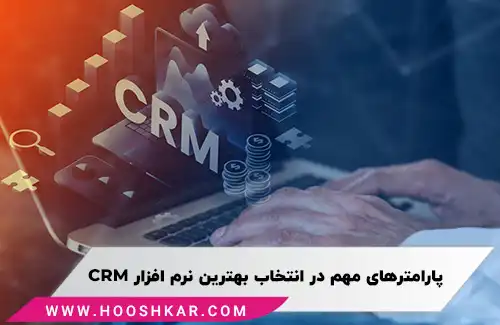
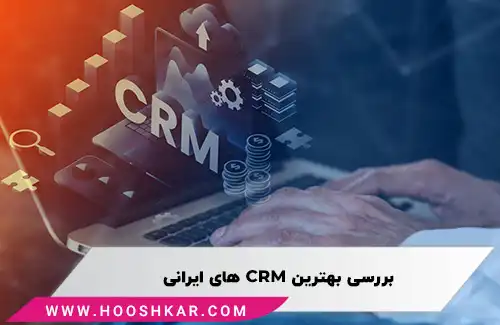
بازخوانی و ویرایش محتوا + فهرست + لینکسازی + عکس

Changed region(s): [[0.18, 0.8308, 0.9, 0.8923]]

diff --git a/Business/ComparisonCrmSoftware.md b/Business/ComparisonCrmSoftware.md
@@ -1,19 +1,19 @@
 ---
-title: مقایسه 4 بهترین نرم افزار های CRM در ایران
+title: مقایسه بهترین نرم افزار های CRM ایرانی
 author: سمانه رشوند
-description: مدیریت ارتباط با مشتری، ابزاری ضروری برای موفقیت و بقای سازمانها در دنیای کسبوکار امروزی است. CRM با فراهم کردن امکان شناخت عمیق مشتریان و برقراری ارتباطی مستمر و دوطرفه با آنها، نقش محوری در موفقیت سازمانها ایفا میکند.
-dateModified: 2024/05/13
+description: مقایسه بهترین نرم افزارهای CRM از نظر امکانات، قیمت و... برای کسب و کارهای ایرانی با هدف آنکه به خوانندگان کمک کند تا بهترین راه حل را برای نیازهای خاص خود انتخاب کنند.
+dateModified: 2024/06/15
 datePublished: 2024/01/06
 uid: Business/ComparisonCrmSoftware
 ---
 <blockquote style="background-color:#eeeefc; padding:0.5rem">
 
 <details>
-  <summary>آنچه در این مطلب خواهید خواند</summary>
+  <summary>آنچه در این مطلب خواهید خواند:</summary>
   <ul>
-    <li>چرا به نرم افزار CRM نیاز داریم</li>
-    <li>استفاده از CRM چه مزایایی دارد</li>
-    <li>راهنما و پارامترهای مهم در انتخاب بهترین نرم افزار CRM</li>
+    <li>چرا به نرم افزار CRM نیاز داریم؟</li>
+    <li>مزایای استفاده از CRM</li>
+    <li>پارامترهای مهم در انتخاب نرم افزار CRM</li>
     <li>لیست بهترین شرکت های نرم افزار CRM در ایران</li>
     <ul>
       <li>نرم افزار CRM فنک</li>
@@ -27,19 +27,15 @@ uid: Business/ComparisonCrmSoftware
 
 </blockquote>
 
-**مقدمه**
-
-<a href="https://www.hooshkar.com/Wiki/Business/WhatIsCrm" target="_blank">مدیریت ارتباط با مشتری (CRM)</a>، ابزاری ضروری برای موفقیت سازمانها در عرصه کسبوکار امروزی است. شرکتهای داخلی متعددی طی سالیان گذشته اقدام به توسعه نرمافزارهای CRM بومی کردهاند.
-
-در این مقاله به معرفی و مقایسه 4 مورد از محبوبترین نرمافزارهای CRM تولید داخل میپردازیم:
+این مقاله، بر اهمیت نرم افزارهای <a href="https://www.hooshkar.com/Wiki/Business/WhatIsCrm" target="_blank">CRM</a> برای کسب و کارهای ایرانی تأکید می کند و به مقایسه بهترین گزینه های موجود در بازار ایران می پردازد. هدف آن است که به خوانندگان کمک کند تا بهترین راه حل را برای نیازهای خاص خود انتخاب کنند. با بررسی ویژگی ها، امکانات، قیمت گذاری و دیگر جنبه های کلیدی این نرم افزارها، کاربران می توانند بهترین گزینه را جهت پیاده سازی یک استراتژی CRM موفق در کسب و کار خود انتخاب کنند.
 
 ![هدف CRM چیست](./Images/ComparisonCrmSoftware-01.webp)
 
-## چرا به نرم افزار CRM نیاز داریم
+## چرا به نرم افزار CRM نیاز داریم؟
 
-مدیریت ارتباط با مشتری (CRM) با فراهم کردن امکان شناخت عمیق مشتریان و برقراری ارتباطی مستمر و دوطرفه با آنها، نقش محوری در موفقیت سازمانها ایفا میکند. 
+بسیاری از شرکت ها و کسب و کارهای ایرانی برای بهبود مدیریت ارتباط با مشتریان خود، به دنبال راه حل های نرم افزاری کارآمد هستند. در این راستا نرم افزارهای CRM می توانند با ارائه ابزارهایی برای پیگیری سوابق مشتری، مدیریت پیشنهادات فروش، بازاریابی هدفمند و پشتیبانی مشتری، به شرکت ها در افزایش فروش و حفظ مشتریان کمک شایانی کنند.
 
-## استفاده از CRM چه مزایایی دارد
+## مزایای استفاده از CRM
 
 **- افزایش فروش و درآمد:** CRM با شناسایی مشتریان بالقوه و هدفمندسازی فعالیتهای بازاریابی، به افزایش فروش و در نتیجه درآمد کمک میکند.
 
@@ -54,9 +50,7 @@ uid: Business/ComparisonCrmSoftware
 در مجموع، CRM ابزاری اساسی برای موفقیت هر سازمانی در عرصه کسبوکار است.
 
 
-## راهنما و پارامترهای مهم در انتخاب بهترین نرم افزار CRM
-
-![پارامترهای مهم در انتخاب نرم افزار CRM](./Images/ComparisonCrmSoftware-02.webp)
+## پارامترهای مهم در انتخاب نرم افزار CRM
 
 انتخاب یک نرمافزار CRM مناسب نیازمند در نظر گرفتن پارامترها و معیارهای زیر است:
 
@@ -76,11 +70,13 @@ uid: Business/ComparisonCrmSoftware
 
 ## لیست بهترین شرکت های نرم افزار CRM در ایران
 
+![پارامترهای مهم در انتخاب نرم افزار CRM](./Images/ComparisonCrmSoftware-02.webp)
+
 شرکتها و گروههای زیادی در ایران اقدام به تولید نرمافزارهای مدیریت ارتباط با مشتری کردهاند. برخی از محبوبترین آنها عبارتند از:
 
-### <a href="https://www.hooshkar.com/Software/Fennec/Module/CRM" target="_blank">نرم افزار  CRM فنک</a>
+### 1. <a href="https://www.hooshkar.com/Software/Fennec/Module/CRM" target="_blank">نرم افزار  CRM فنک</a>
 
-این نرمافزار توسط شرکت هوشکار پرداز ارائه شده و ویژگیهای کلیدی آن عبارتند از:
+این نرمافزار توسط شرکت هوشکار پرداز ارائه شده است. برخی از ویژگیهای کلیدی آن عبارتند از:
 
 -	قابلیتهای کامل مدیریت فروش و بازاریابی
 -	امکان سفارشیسازی و تطابق با فرایندهای صنایع مختلف
@@ -90,37 +86,47 @@ uid: Business/ComparisonCrmSoftware
 -	پشتیبانی فنی دائمی
 -	هزینه پایین نسبت به محصولات خارجی
 
-CRM <a href="https://www.hooshkar.com/Software/Fennec" target="_blank">فنک</a> با تمرکز بر خودکارسازی و بهینهسازی فرایندها، گزینه مناسبی به شمار میرود.
+CRM فنک با تمرکز بر خودکارسازی و بهینهسازی فرایندها، گزینه مناسبی به شمار میرود.
 
-### نرمافزار CRM پیامگستر
-نرمافزار پیامگستر CRM یکی از 5 نرمافزار CRM برتر ایرانی است که توسط شرکت پیامگستر طراحی و توسعه یافته است. از نظر قیمت، پیامگستر جزء گرانقیمتترین نرمافزارهای CRM داخلی بهشمار میرود. البته مشتریان میتوانند به صورت سفارشی امکانات مورد نیاز خود را انتخاب کنند اما این کار باعث میشود هزینهی اولیهی استفاده از این نرمافزار بالاتر از سایر رقبا باشد.
+### 2. نرمافزار CRM پیامگستر
+این نرمافزار توسط شرکت پیامگستر طراحی و توسعه یافته است. از نظر قیمت، پیامگستر جزء گرانقیمتترین نرمافزارهای CRM داخلی بهشمار میرود. البته مشتریان میتوانند به صورت سفارشی امکانات مورد نیاز خود را انتخاب کنند اما این کار باعث میشود هزینهی اولیهی استفاده از این نرمافزار بالاتر از سایر رقبا باشد.
 
 ![نرم افزار CRM پیام گستر](./Images/ComparisonCrmSoftware-03.webp)
 
-با وجود قیمت بالاتر،  CRM پیامگستر ویژگیها و قابلیتهای فراوانی دارد که آن را به یک گزینهی رقابتی در بازار تبدیل کرده است. از جمله مزایای این نرمافزار میتوان به امکان ساخت گردش کار به روش Drag & Drop، وجود اپلیکیشن موبایل، تیم جوان و پویای توسعهدهنده و پشتوانهی قدرتمند تجارت الکترونیک اشاره کرد.
+با وجود قیمت بالاتر،  CRM پیامگستر ویژگیها و قابلیتهای فراوانی دارد که آن را به یک گزینهی رقابتی در بازار تبدیل کرده است. از جمله مزایای این نرمافزار میتوان به 
 
-در مجموع به نظر میرسد CRM پیامگستر میتواند برای کسبوکارهای متوسط و بزرگ که به دنبال امکانات پیشرفتهی مدیریت ارتباط با مشتری هستند و محدودیت مالی ندارند، انتخاب مناسبی باشد. البته توصیه میشود پیش از تصمیمگیری نهایی، نیازها و اهداف سازمان مدنظر قرار گیرد تا مطمئن شوید CRM پیامگستر میتواند به بهترین شکل نیازها را برآورده کند.
+- امکان ساخت گردش کار به روش Drag & Drop
+- وجود اپلیکیشن موبایل
+- مناسب کسبوکارهای متوسط و بزرگ
+- و...
 
-### نرمافزار CRM دیدار
+### 3. نرمافزار CRM دیدار
 
 نرمافزار CRM دیدار یکی از نرمافزارهای ابری مدیریت ارتباط با مشتری است که از سال 1393 توسط شرکت دیدار عرضه شده است. از ویژگیهای بارز این محصول میتوان به سادگی استفاده و قیمت مناسب آن اشاره کرد. 
 
 ![نرم افزار CRM دیدار](./Images/ComparisonCrmSoftware-04.webp)
 
-نرمافزار دیدار بیشتر متمرکز بر نیازهای بخش فروش شرکتهاست و ویژگیهایی برای مدیریت فرآیندهای این بخش در نظر گرفته شده است. از جمله امکانات جذاب این نرمافزار میتوان به ابزار بازیگونهسازی برای ایجاد انگیزه در بین کارکنان فروش و امکان نظرسنجی از مشتریان اشاره کرد.
+از جمله امکانات جذاب این نرمافزار میتوان به موارد زیر اشاره کرد:
 
-با توجه به ویژگیهای ذکر شده، به نظر میرسد CRM دیدار بیشتر مناسب کسبوکارهای کوچک و متوسطی باشد که فقط به ابزاری ساده برای مدیریت فروش نیاز دارند. از آنجا که امکانات پیشرفتهای مانند گردش کار و سفارشیسازی در این محصول وجود ندارد، برای سازمانهای بزرگتر گزینه مناسبی به نظر نمیرسد. 
+- ارائه بصورت ابری
+- امکان نظرسنجی از مشتریان
+- مناسب کسبوکارهای کوچک و متوسط
+- فاقد امکان گردش کار و سفارشیسازی
 
-البته کاربران میتوانند درخواست افزودن امکانات جدید را ارسال کنند که البته اضافه شدن آنها بستگی به تعداد درخواستها دارد. نکته مثبت ارائه نسخه آزمایشی 15 روزه رایگان توسط شرکت دیدار است که امکان آزمودن نرمافزار را پیش از خرید فراهم میکند. در مجموع، CRM دیدار برای کسبوکارهای کوچکی که به ابزارهای ساده مدیریت فروش نیاز دارند، میتواند گزینه مناسبی باشد.
+البته کاربران میتوانند درخواست افزودن امکانات جدید را ارسال کنند که البته اضافه شدن آنها بستگی به تعداد درخواستها دارد.
+
+ - ارائه نسخه آزمایشی 15 روزه رایگان 
+ 
+ در مجموع، CRM دیدار برای کسبوکارهای کوچکی که به ابزارهای ساده مدیریت فروش نیاز دارند، میتواند گزینه مناسبی باشد.
 
 <blockquote style="background-color:#f5f5f5; padding:0.5rem">
 <p><strong>بیشتر بخوانید: <a href="https://www.hooshkar.com/Wiki/Business/CrmAndErpDifferences" target="_blank">تفاوت CRM و ERP چیست؟</a></p></strong></blockquote>
 
-### نرمافزار CRM سرو
+### 4. نرمافزار CRM سرو
 
 نرمافزار CRM سرو توسط گروه همکاران سیستم و به عنوان اولین نرمافزار CRM ابری ایرانی، از سال 1391 عرضه شده است. این محصول بر پایه نسخههای اولیه نرمافزار متنباز SugarCRM توسعه یافتهاست.  
 
-**ویژگیهای اصلی سرو CRM:**
+برخی از ویژگیهای این نرم افزار:
 
 - ارائه به صورت ابری و دسترسی آسان از هر جا 
 - قابلیت مدیریت فرایندهای فروش، بازاریابی و خدمات مشتری
@@ -134,15 +140,15 @@ CRM <a href="https://www.hooshkar.com/Software/Fennec" target="_blank">فنک</a
 
 سرو با توجه به ویژگیها و قابلیتهای فراوان و همچنین هزینه مناسب، یکی از گزینههای قابل توجه در بازار نرمافزارهای مدیریت ارتباط با مشتری است که میتواند پاسخگوی نیازهای سازمانهای ایرانی باشد.
 
-## دانلود نرم افزار CRM رایگان
+## بررسی و دانلود نرم افزارهای CRM رایگان
 
 علاوه بر نرمافزارهای تجاری CRM، گزینههای متنباز رایگانی نیز وجود دارند که برای سازمانهای کوچک و استارتاپها مناسب هستند.
 
-یکی از این موارد ویتایگر است که بر پایه نرمافزار SugarCRM توسعه یافته و قابلیتهایی برای مدیریت بازاریابی، فروش و خدمات پس از فروش دارد. همچنین امکان سفارشیسازی آن نیز وجود دارد.
+یکی از این موارد **ویتایگر** است که بر پایه نرمافزار SugarCRM توسعه یافته و قابلیتهایی برای مدیریت بازاریابی، فروش و خدمات پس از فروش دارد. همچنین امکان سفارشیسازی آن نیز وجود دارد.
 
-SuiteCRM، Odoo، Vtiger از دیگر نرمافزارهای CRM متنباز هستند که میتوانند برای سازمانهای نوپا مناسب باشند.
+**SuiteCRM، Odoo، Vtiger** از دیگر نرمافزارهای CRM متنباز هستند که میتوانند برای سازمانهای نوپا مناسب باشند.
 
-در مجموع، هر سازمانی با توجه به نیازها، اهداف و بودجه خود میتواند گزینه مناسب CRM را انتخاب کند. CRM میتواند نقش محوری در موفقیت سازمانها ایفا کند.
+در مجموع، هر سازمانی با توجه به نیازها، اهداف و بودجه خود میتواند گزینه مناسب را انتخاب کند. CRM میتواند نقش محوری در موفقیت سازمانها ایفا کند.
 
 ---
 برای دستیابی به بهترین نرم افزار CRM، می توانید با کارشناسان <a href="https://www.hooshkar.com" target="_blank">هوشکار</a> در ارتباط باشید.
